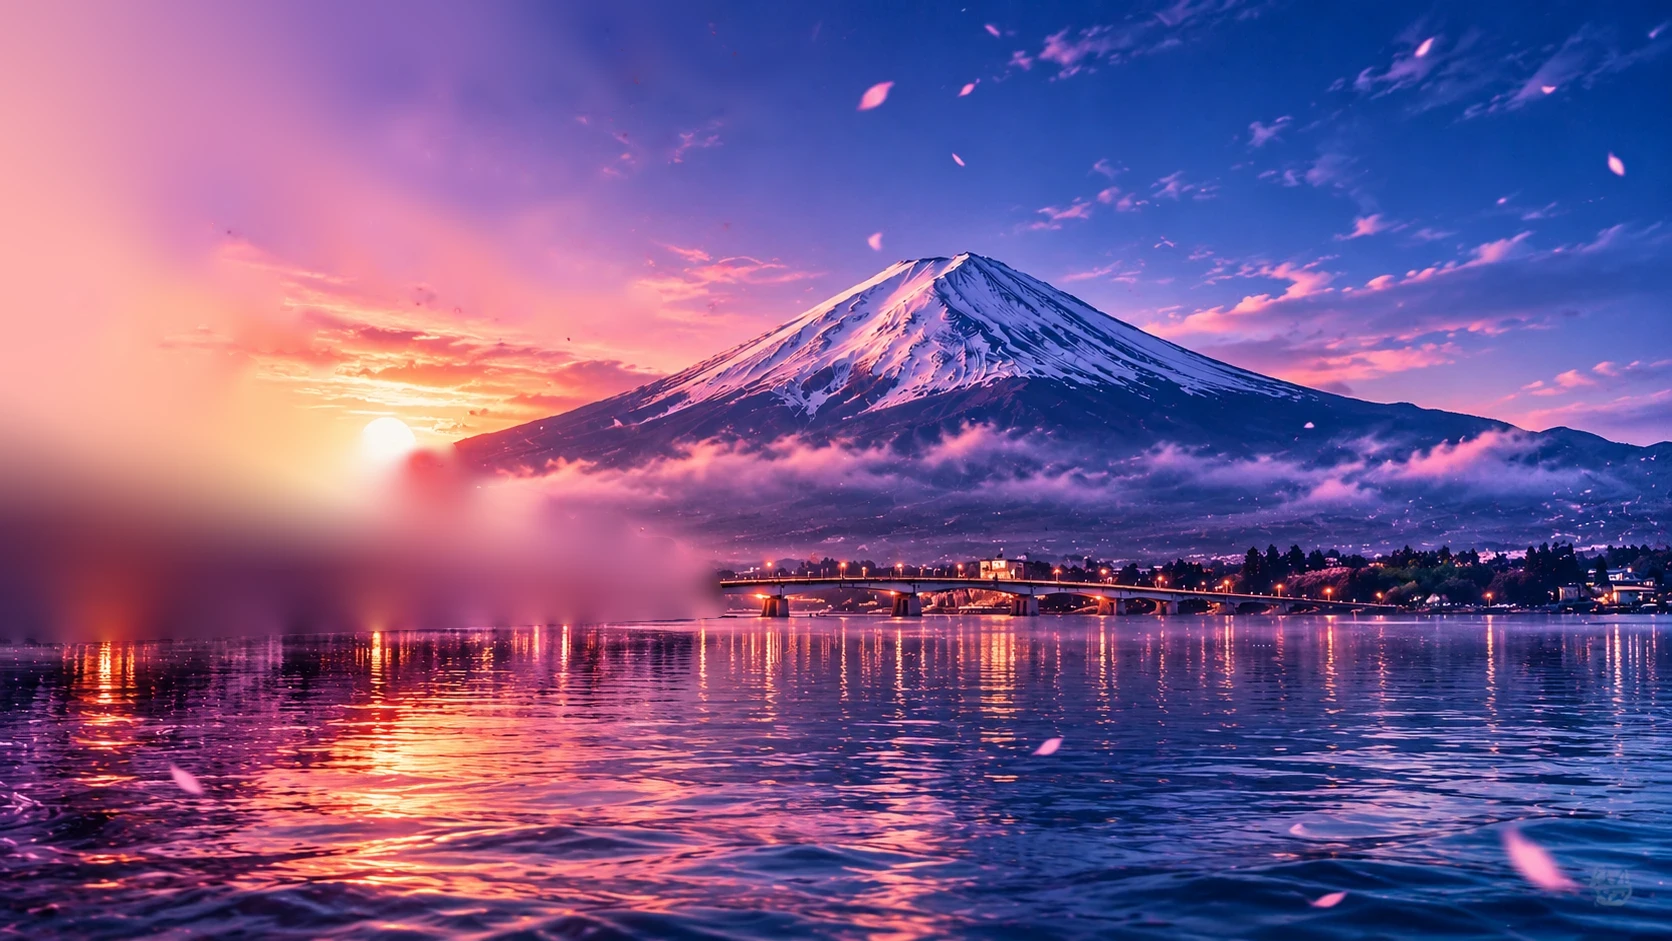
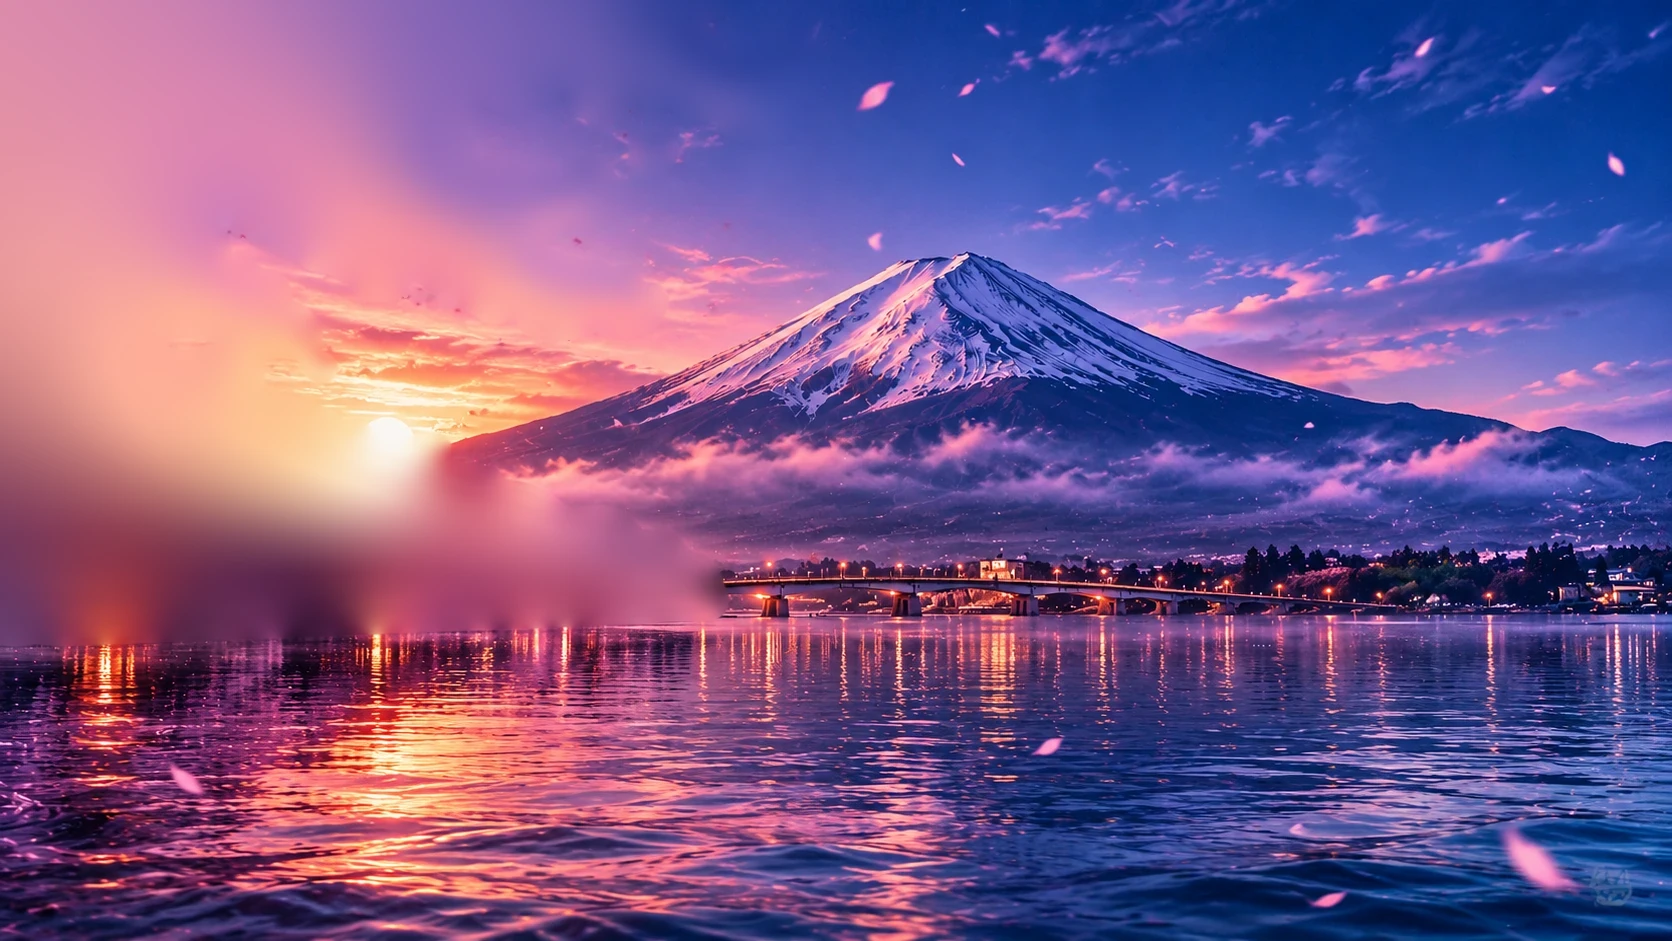
Login: clouds enter at the left edge and cross the whole sky
Clouds cover all the sky from the left edge, so they flow in, cross and leave continuously. To keep the blossom edges clean, the tree is drawn from a layer whose petal edges carry petal colour, over a sky plate rebuilt from sky clear of the glow round the petals, with a tighter tree mask.

diff --git a/src/components/auth/SceneCanvas.tsx b/src/components/auth/SceneCanvas.tsx
@@ -37,6 +37,7 @@ precision highp float;
 varying vec2 vS;
 uniform sampler2D uImg;
 uniform sampler2D uPlate; // the picture with the trees taken out and the sky behind them filled in
+uniform sampler2D uFg;    // the tree layer: the picture with the rim of old sky colour at every petal's edge replaced by petal colour
 uniform sampler2D uTree;  // masks: R = tree (branch or blossom), G = sky above the skyline (where the clouds drift)
 uniform float uT;
 uniform vec4 uMap;   // screen -> picture: offset x, offset y, scale x, scale y
@@ -234,7 +235,7 @@ void main(){
     // Behind the tree: the still sky plate, with the drifting clouds in it where there are clouds.
     vec2 q = clamp(u + dTree, 0.0, 1.0);
     float a = texture2D(uTree, q).r;
-    rgb = mix(cloudsAt(u, texture2D(uPlate, u).rgb, t), texture2D(uImg, q).rgb, a);
+    rgb = mix(cloudsAt(u, texture2D(uPlate, u).rgb, t), texture2D(uFg, q).rgb, a);
   } else if (!lake) {
     rgb = cloudsAt(u, rgb, t);
   }
@@ -300,7 +301,7 @@ export default function SceneCanvas({ src, anchor = [0.4, 0.5] }: { src: string;
       const vs = compile(gl, gl.VERTEX_SHADER, VERT);
       const lite = window.matchMedia("(pointer: coarse)").matches || window.innerWidth < 700;
       // The skeleton needs three vectors per bone; a device with fewer uniforms than that keeps the still picture.
-      if ((gl.getParameter(gl.MAX_FRAGMENT_UNIFORM_VECTORS) as number) < BONE_COUNT * 3 + 24 || (gl.getParameter(gl.MAX_TEXTURE_IMAGE_UNITS) as number) < 3) return;
+      if ((gl.getParameter(gl.MAX_FRAGMENT_UNIFORM_VECTORS) as number) < BONE_COUNT * 3 + 24 || (gl.getParameter(gl.MAX_TEXTURE_IMAGE_UNITS) as number) < 4) return;
       const fsh = compile(gl, gl.FRAGMENT_SHADER, lite ? FRAG.replace("#define OCT 4", "#define OCT 3") : FRAG);
       if (!vs || !fsh) return;
       const prog = gl.createProgram();
@@ -321,7 +322,7 @@ export default function SceneCanvas({ src, anchor = [0.4, 0.5] }: { src: string;
       let imgs: HTMLImageElement[];
       try {
         const base = src.replace(/\.webp$/, "");
-        imgs = await Promise.all([loadImage(src), loadImage(`${base}-plate.webp`), loadImage(`${base}-masks.webp`)]);
+        imgs = await Promise.all([loadImage(src), loadImage(`${base}-plate.webp`), loadImage(`${base}-masks.webp`), loadImage(`${base}-treefg.webp`)]);
       } catch {
         return;
       }
@@ -338,6 +339,7 @@ export default function SceneCanvas({ src, anchor = [0.4, 0.5] }: { src: string;
       gl.uniform1i(gl.getUniformLocation(prog, "uImg"), 0);
       gl.uniform1i(gl.getUniformLocation(prog, "uPlate"), 1);
       gl.uniform1i(gl.getUniformLocation(prog, "uTree"), 2);
+      gl.uniform1i(gl.getUniformLocation(prog, "uFg"), 3);
       const uT = gl.getUniformLocation(prog, "uT");
       const uMap = gl.getUniformLocation(prog, "uMap");
       // The skeleton: where each bone starts and ends and how far its influence reaches never change; how it is moving does.

diff --git a/design-system/live-city-japan/pages/login.md b/design-system/live-city-japan/pages/login.md
@@ -10,7 +10,7 @@ Only the deltas. Everything not listed here follows MASTER.md.
 | ≤ 1–2 animated elements (shine border) | The sign-in panel has a 2px **shine border** (`ShineBorder.tsx`): a lilac → sakura → gold gradient that turns around the card (3.5s, two travelling highlights, `transform` only). It pauses with hidden tabs and stays still for reduced motion. | Adopted from the Magic UI "Shine Border" idea, rebuilt without shadcn or any new dependency. Colours are the page palette, not new tokens. |
 | Glass fill 5–8% white | The panel is `bg-panel/80` + `backdrop-blur-xl` over the photo. | MASTER §5: an opaque-ish scrim is required behind text over imagery. |
 | ≤ 1–2 animated elements | Slow photo zoom, drifting mist, shimmer on the water and 9 sakura petals — all decorative, `transform`/`opacity` only, stopped for reduced motion and hidden tabs. | Ambient atmosphere; none of it carries information. |
-| ≤ 1–2 animated elements (cinematic scenery, 2026-11-19, approved; trees and water reworked the same day) | `SceneCanvas.tsx`, a WebGL shader, draws the **same picture** and moves it in four ways. **Lake:** seven wave trains (long slow swells in front, short chop further out, speeds from the deep-water rule, aims drifting, crests bent by noise), a slope-based reflection lookup so the sunset, trees, Fuji and bridge lights stretch and slide with the waves, sun glitter from facets facing the sun, wandering calm and rough patches, and six drop-rings reborn at new places. **Cherry trees:** the picture is one flat image, so the trees are lifted off it with a mask and drawn over a **still sky plate** (`scripts/make-tree-plate.mjs` makes `fuji-sakura-dusk-plate.webp` and `-tree.webp`), so the sky never moves with the branches. A **skeleton** traced over the branches (`treeRig.ts`, 60 bones: the top-left tree and the shore grove, each shore tree a stiff trunk with crown branches carrying the blossom masses) deforms the tree like a skinned mesh, driven by a spring simulation of the wind, which is the difference from the steady breeze the picture already shows: drifting eddies about a tree wide (neighbouring trees are pushed in different directions at different times), plus gusts that are patches of stronger wind carried slowly along and touching only the trees beneath them. Each tree has its own character (swing rate, how easily it moves, the angle the wind seems to come at it, how far it is out of step in time), so the trees sway both ways about their pose and never together; branches lean, overshoot and settle. Thick limbs barely move, thin ones give, twigs swing most and later, and the blossom follows its twig and shivers as it moves. **Clouds (revised 2026-11-19):** the sky's clouds are now drawn procedurally by the shader as three layers of broad, soft, lit-and-shaded banks (warm toward the sunset, violet in shade) at three speeds over the picture's own sky, masked by Fuji's traced outline and kept clear of the blossom; the picture's own small wisps are not drifted in the sky (they looked like flying leaves). The low mist at the mountain's foot is left still, exactly as in the picture (2026-11-19, owner's request: sliding mist under the mountain looked wrong); the split described next is no longer used. Earlier: `make-tree-plate.mjs` splits the sky (above Mount Fuji's traced outline, away from the sun and the trees) and the mist band over the mountain into a smooth still base (`-skybase.webp`) and the cloud detail (`-clouds.webp`); the shader slides the detail through the base along the wind (high sky fastest, mist slowest, reshaped by slow noise, two copies cross-fading so the loop never shows), so the sunset glow and the blue stay put while the clouds travel, passing behind the mountain. **Light:** breathes slowly. **Petals and leaves** (`PetalField.tsx`) are a pool of at most 17 elements moved by the same wind simulation: shed from the twigs as gusts pass, a few drifting in, and the odd large out-of-focus one. Drawn at screen resolution (less on phones), paused for hidden tabs, **not started** for reduced motion (petals never appear), and if WebGL or its uniforms are unavailable the still picture stays. | The brief asked for a living, realistic scene, with real tree movement and a still sky. |
+| ≤ 1–2 animated elements (cinematic scenery, 2026-11-19, approved; trees and water reworked the same day) | `SceneCanvas.tsx`, a WebGL shader, draws the **same picture** and moves it in four ways. **Lake:** seven wave trains (long slow swells in front, short chop further out, speeds from the deep-water rule, aims drifting, crests bent by noise), a slope-based reflection lookup so the sunset, trees, Fuji and bridge lights stretch and slide with the waves, sun glitter from facets facing the sun, wandering calm and rough patches, and six drop-rings reborn at new places. **Cherry trees:** the picture is one flat image, so the trees are lifted off it with a mask and drawn over a **still sky plate** (`scripts/make-tree-plate.mjs` makes `fuji-sakura-dusk-plate.webp` and `-tree.webp`), so the sky never moves with the branches. A **skeleton** traced over the branches (`treeRig.ts`, 60 bones: the top-left tree and the shore grove, each shore tree a stiff trunk with crown branches carrying the blossom masses) deforms the tree like a skinned mesh, driven by a spring simulation of the wind, which is the difference from the steady breeze the picture already shows: drifting eddies about a tree wide (neighbouring trees are pushed in different directions at different times), plus gusts that are patches of stronger wind carried slowly along and touching only the trees beneath them. Each tree has its own character (swing rate, how easily it moves, the angle the wind seems to come at it, how far it is out of step in time), so the trees sway both ways about their pose and never together; branches lean, overshoot and settle. Thick limbs barely move, thin ones give, twigs swing most and later, and the blossom follows its twig and shivers as it moves. **Clouds (revised 2026-11-19):** the sky's clouds are now drawn procedurally by the shader as three layers of broad, soft, lit-and-shaded banks (warm toward the sunset, violet in shade) at three speeds over the picture's own sky, masked by Fuji's traced outline and covering the whole sky from the left edge, so they enter at the left, cross to the right and leave, continuously (the blossom is drawn over them using a tree layer whose petal edges carry petal colour, and a sky plate rebuilt from sky 10 px clear of the tree, so no halo shows); the picture's own small wisps are not drifted in the sky (they looked like flying leaves). The low mist at the mountain's foot is left still, exactly as in the picture (2026-11-19, owner's request: sliding mist under the mountain looked wrong); the split described next is no longer used. Earlier: `make-tree-plate.mjs` splits the sky (above Mount Fuji's traced outline, away from the sun and the trees) and the mist band over the mountain into a smooth still base (`-skybase.webp`) and the cloud detail (`-clouds.webp`); the shader slides the detail through the base along the wind (high sky fastest, mist slowest, reshaped by slow noise, two copies cross-fading so the loop never shows), so the sunset glow and the blue stay put while the clouds travel, passing behind the mountain. **Light:** breathes slowly. **Petals and leaves** (`PetalField.tsx`) are a pool of at most 17 elements moved by the same wind simulation: shed from the twigs as gusts pass, a few drifting in, and the odd large out-of-focus one. Drawn at screen resolution (less on phones), paused for hidden tabs, **not started** for reduced motion (petals never appear), and if WebGL or its uniforms are unavailable the still picture stays. | The brief asked for a living, realistic scene, with real tree movement and a still sky. |
 | Guest button is lilac → sakura with dark text | **Transparent glass**: faint white fill, 1px light border, white text, same width as the panel's other controls (3rem); a compass and an arrow that rests with a tiny nudge, slides 6px on hover/focus and 10px on press. No blue, purple, pink or white fills. Panel glass is a deep-blue tint over a 14px blur so text stays readable. | Balanced with the sign-in button; avoids the filled colours. |
 
 Behaviour rules for this page:
